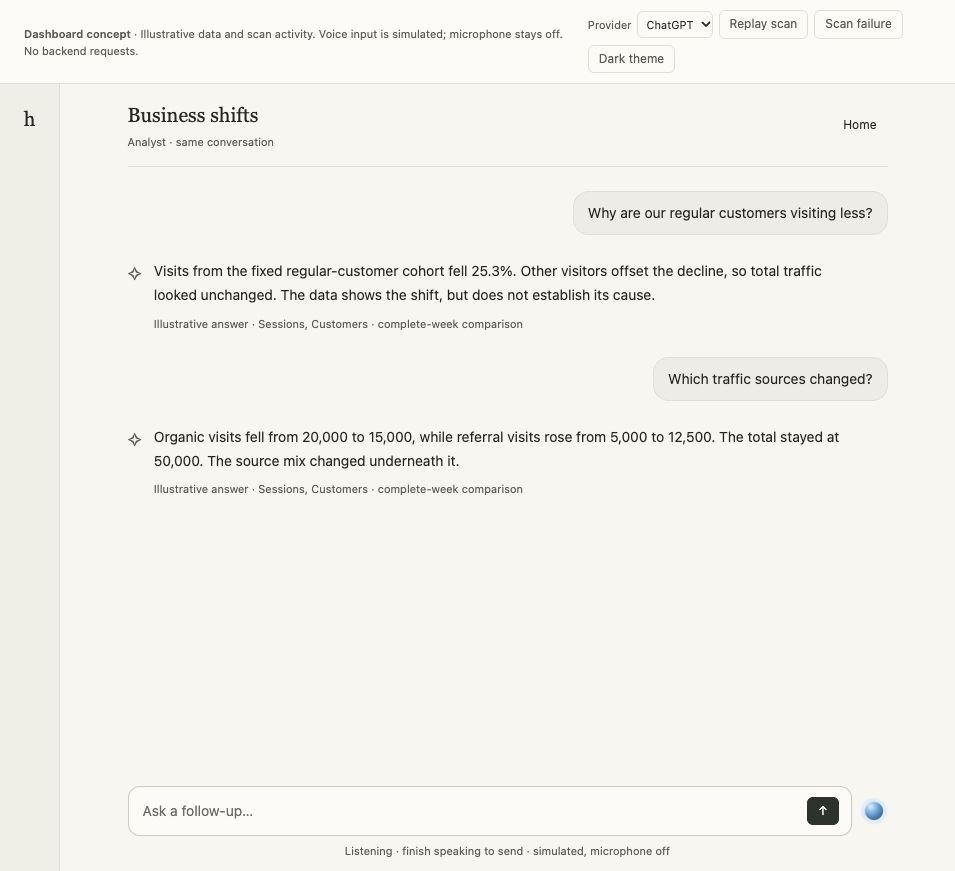
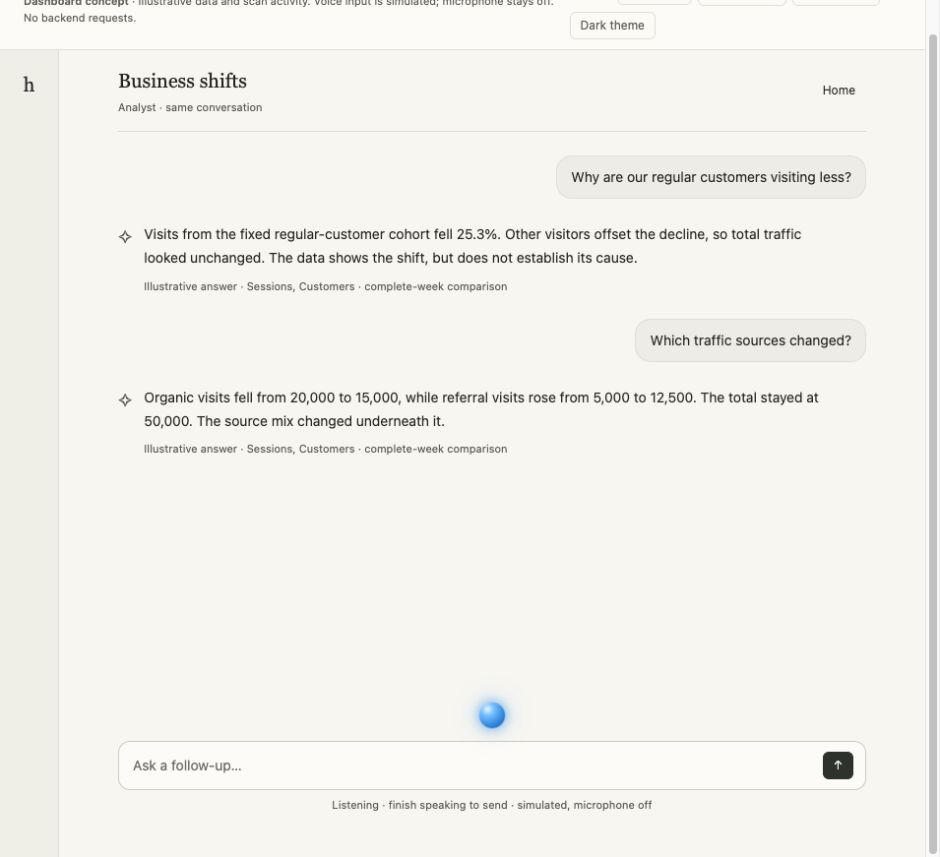
docs: place active blue voice orb above chat composer

diff --git a/docs/design/business-dashboard/index.html b/docs/design/business-dashboard/index.html
@@ -186,6 +186,11 @@ main.chat-mode{padding-top:0;padding-bottom:0}
 .chat-answer>span{color:var(--hf-muted);font-size:18px}.chat-answer p{margin:0}.chat-answer small{display:block;margin-top:8px;font-size:11px;color:var(--hf-muted)}
 .chat-answer.pending p{color:var(--hf-muted);font-size:12px}
 .chat-dock{padding:12px 0 10px;background:var(--hf-bg)}
+.chat-live-controls{display:flex;justify-content:center;margin:0 0 8px}
+.chat-live-controls:has(button[hidden]){display:none}
+.chat-live-controls .voice-trigger{width:44px;height:36px}
+.chat-live-controls .orb-mark{width:24px;height:24px}
+#chat-voice[aria-pressed="true"] .orb-mark{opacity:1;background:radial-gradient(circle at 32% 26%,#eef8ff 0%,#80c5ff 26%,#368fe0 66%,#2464b4 100%);box-shadow:0 0 8px 3px #479feb66,0 0 20px 5px #479feb33;animation:voice-breathe 1.5s ease-in-out infinite}
 .chat-hint{margin:6px 0 0;text-align:center;font-size:11px;color:var(--hf-muted)}
 .voice-trigger[data-phase="thinking"] .orb-mark,.voice-trigger[data-phase="replying"] .orb-mark{animation:none;opacity:.6}
 @media(max-width:700px){.chat-view{height:calc(100dvh - 180px)}.chat-answer{max-width:100%}.chat-question{font-size:13px}}
@@ -212,7 +217,7 @@ main.chat-mode{padding-top:0;padding-bottom:0}
 <section id="chat-view" class="chat-view" aria-label="Analyst conversation" hidden>
 <header class="chat-head"><div><h1>Business shifts</h1><p>Analyst · same conversation</p></div><button class="btn ghost" id="back-home" type="button">Home</button></header>
 <div class="chat-log" id="chat-log" role="log" aria-label="Conversation" aria-live="polite"></div>
-<form id="chat-form" class="chat-dock"><div class="ask-row"><div class="ask-field"><input id="chat-input" aria-label="Chat follow-up" placeholder="Ask a follow-up…" minlength="5" required><button class="btn primary" type="submit" id="chat-send" aria-label="Send follow-up">↑</button></div><button class="voice-trigger" type="button" id="chat-voice" aria-label="Start hands-free voice with ChatGPT" aria-pressed="false" title="Hands-free voice · ChatGPT"><span class="orb-mark" aria-hidden="true"></span></button></div><p class="chat-hint" id="chat-hint">Illustrative conversation · no backend requests</p></form>
+<form id="chat-form" class="chat-dock"><div class="chat-live-controls"><button class="voice-trigger" type="button" id="chat-voice" aria-label="Start hands-free voice with ChatGPT" aria-pressed="false" title="Hands-free voice · ChatGPT"><span class="orb-mark" aria-hidden="true"></span></button></div><div class="ask-row"><div class="ask-field"><input id="chat-input" aria-label="Chat follow-up" placeholder="Ask a follow-up…" minlength="5" required><button class="btn primary" type="submit" id="chat-send" aria-label="Send follow-up">↑</button></div></div><p class="chat-hint" id="chat-hint">Illustrative conversation · no backend requests</p></form>
 </section>
 <div class="sr" id="announce" aria-live="polite"></div></main></div>
 <script>

diff --git a/docs/design/business-dashboard/README.md b/docs/design/business-dashboard/README.md
@@ -12,6 +12,8 @@ Validated JavaScript syntax, complete Home sections, three visible desktop cards
 
 Finding secondary text is limited to 3–4 words at 11px. Details is a subtle muted text disclosure with a small chevron and no separator line. Updated desktop and 390px mobile previews verify the compact layout; mobile capture is a 390px iframe viewport.
 
-ChatGPT-only hands-free voice preview: a secondary orb follows the existing input, outside its border, on Home and in normal Analyst chat. Activating it simulates a question; pausing automatically submits into the ordinary conversation. It simulates a response, listens again and completes a second follow-up without another click. The same chat composer remains available for typing. No floating live panel or per-finding Talk actions. Demo provider selector hides both orbs for Claude and Local. The microphone stays off; all transcripts and responses are scripted. There is no audio playback, ChatGPT connection or production voice implementation.
+ChatGPT-only hands-free voice preview: a secondary orb follows the existing input on Home. In normal Analyst chat it is centered above the composer, outside its border, and glows blue throughout the active Live session to signal a continuing conversation. Activating it simulates a question; pausing automatically submits into the ordinary conversation. It simulates a response, listens again and completes a second follow-up without another click. The same chat composer remains available for typing. No floating live panel or per-finding Talk actions. Demo provider selector hides both orbs for Claude and Local. The microphone stays off; all transcripts and responses are scripted. There is no audio playback, ChatGPT connection or production voice implementation.
 
 Verified two automatic questions and two replies, continued listening, stopping voice, provider gating, typed drafts and a 390px phone layout without document overflow. Normal chat layout follows chat.tsx and analyst.css. hands-free-desktop.jpg and hands-free-mobile.jpg show the conversation/composer. Mobile capture uses a 390px iframe viewport. Open index.html#hands-free to replay the scripted flow; this deep link is only a prototype shortcut, not an instruction to capture a real microphone on page load.
+
+Production prerequisite: GPT-Live (gpt-live-1) with real tool calling/delegation, as specified in upstream issue #54. The scripted UX simulation is not the production implementation. Verified above-composer placement and active blue glow on desktop and phone.
